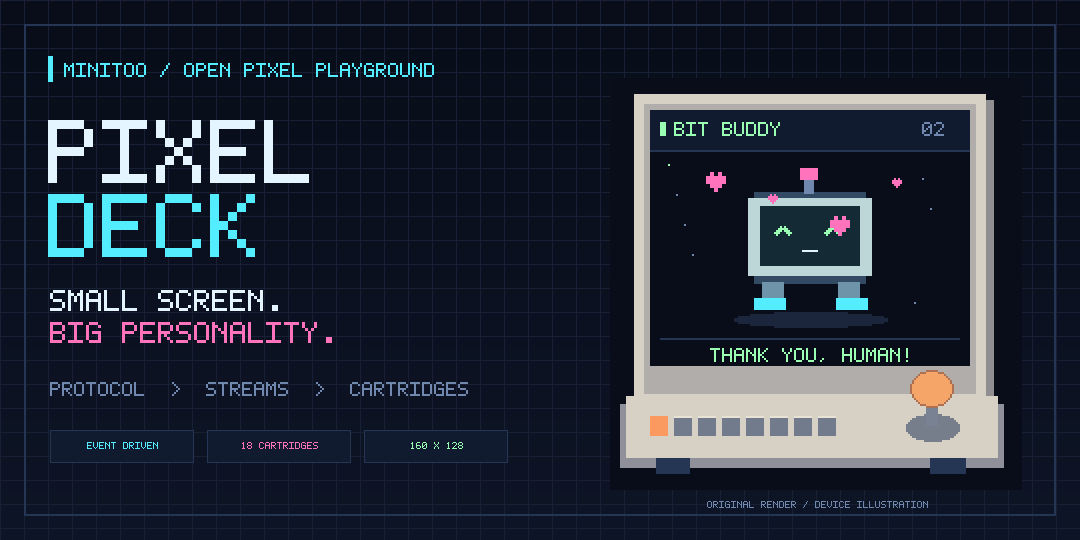
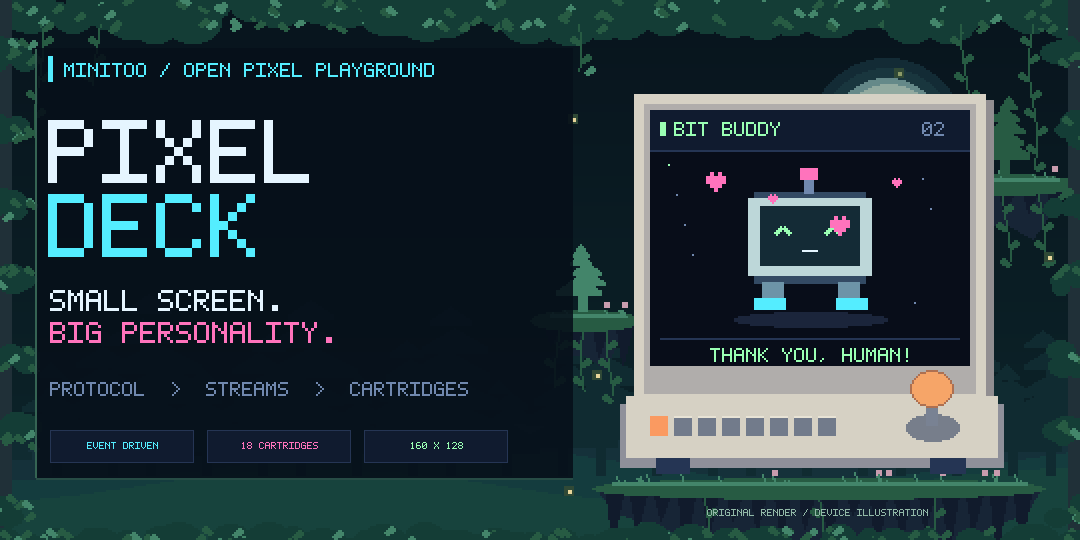
docs: add pixel forest artwork and GitHub attribution
Frame the guides and gallery with original woodland scenery while keeping
demo screens intact. Credit the GitHub maintainer in package metadata and
the license, and preserve all technical instructions.

Validation: 150 public files and local links audited; packaged runtime
files match the isolated installation with 18 verified renderers.

diff --git a/tools/build_gallery.py b/tools/build_gallery.py
@@ -1,6 +1,7 @@
 """Regenerate every repository image from the demo renderers and original art."""
 from pathlib import Path
 import math
+import random
 import sys
 from PIL import Image, ImageDraw
 ROOT=Path(__file__).resolve().parents[1]
@@ -10,13 +11,17 @@ from pixeldeck.export import export_demo, specimen
 from pixeldeck.pixels import Canvas, INK, PANEL, LINE, WHITE, CYAN, PINK, MINT, MUTED, GOLD
 OUT=ROOT/'docs/assets'; OUT.mkdir(parents=True,exist_ok=True)
 USEFUL=('dashboard','network','storage','power','clock','stopwatch','pomodoro','breathe','build')
+FOREST={'night':'#071519','far':'#102b31','pine':'#143d36','leaf':'#275b43',
+        'moss':'#43856a','light':'#91c6a0','bark':'#203038','rock':'#172536',
+        'shade':'#111b2c','glow':'#e7d59a','flower':'#c89cae'}
 
 def text(image,x,y,value,color=WHITE,size=1,center=False):
     c=Canvas(); c.image=image; c.d=ImageDraw.Draw(image); c.text(x,y,value,color,size,center)
 
-def device(screen,scale=2):
+def device(screen,scale=2,transparent=False):
     """Stylized front view, not a product photo or a dimensional CAD drawing."""
-    base=Image.new('RGB',(206,206),INK); d=ImageDraw.Draw(base)
+    base=Image.new('RGBA' if transparent else 'RGB',(206,206),(0,0,0,0) if transparent else INK)
+    d=ImageDraw.Draw(base)
     d.rectangle((17,11,191,164),fill='#918e91')
     d.rectangle((12,8,187,162),fill='#d6d1c4')
     d.rectangle((17,13,182,157),fill='#b0adab')
@@ -34,12 +39,167 @@ def device(screen,scale=2):
     d.rectangle((23,190,39,197),fill=LINE); d.rectangle((160,190,177,197),fill=LINE)
     return base.resize((206*scale,206*scale),Image.Resampling.NEAREST)
 
+def _leaf(draw,x,y,color,flip=False,scale=1):
+    """A compact pointed leaf sprite, shared by canopy, vines and page edges."""
+    rows=('0001100','0011110','0111110','1111100','0110000')
+    for row,bits in enumerate(rows):
+        for col,bit in enumerate(bits):
+            if bit=='1':
+                px=x+(6-col if flip else col)*scale
+                draw.rectangle((px,y+row*scale,px+scale-1,y+(row+1)*scale-1),fill=color)
+
+def _foliage(draw,x,y,radius,seed,color=None):
+    rng=random.Random(seed)
+    color=color or FOREST['pine']
+    for index in range(7):
+        px=x+rng.randint(-radius,radius); py=y+rng.randint(-radius//3,radius//3)
+        size=rng.randint(max(3,radius//3),max(4,radius*2//3))
+        draw.ellipse((px-size,py-size//2,px+size,py+size),fill=color)
+    for index in range(max(5,radius//2)):
+        px=x+rng.randint(-radius,radius); py=y+rng.randint(-radius//2,radius//2)
+        _leaf(draw,px,py,FOREST['leaf'] if index%3 else FOREST['moss'],index%2)
+
+def _vine(draw,x,y,length,seed,t=0):
+    phase=seed*.7
+    points=[(x+round(math.sin(step/12+phase+t*math.tau/4)*2),y+step)
+            for step in range(length)]
+    if points:
+        draw.line(points,fill=FOREST['leaf'],width=1)
+    for step in range(6,length,9):
+        px,py=points[step]
+        flip=(step//9+seed)%2==0
+        _leaf(draw,px-6 if flip else px,py,FOREST['moss'] if step%3 else FOREST['leaf'],flip)
+
+def _tree(draw,x,base,height,seed,color):
+    """Layered broadleaf silhouette; far trees stay quiet behind the foreground."""
+    rng=random.Random(seed)
+    draw.rectangle((x-2,base-height//2,x+2,base),fill=color)
+    for index in range(5):
+        y=base-height+index*height//7
+        radius=max(4,(index+2)*height//15)
+        offset=rng.randint(-height//12,height//12)
+        draw.polygon([(x+offset,y-4),(x+offset+radius,y+radius//3),
+                      (x+offset+radius,y+radius//2),(x-radius+offset,y+radius//2),
+                      (x-radius+offset,y+radius//3)],fill=color)
+
+def _island(draw,x,y,width,depth,seed,t=0):
+    rng=random.Random(seed); left=x-width//2; right=x+width//2
+    draw.polygon([(left,y),(right,y),(right-7,y+depth//3),(x+width//5,y+depth),
+                  (x,y+depth-7),(x-width//4,y+depth*3//4),(left+9,y+depth//3)],fill=FOREST['rock'])
+    for offset in range(5,width-8,12):
+        top=y+3; end=y+rng.randint(max(4,depth//3),max(5,depth-2))
+        draw.polygon([(left+offset,top),(left+offset+8,top),(left+offset+3,end)],fill=FOREST['shade'])
+    draw.ellipse((left-2,y-5,right+2,y+5),fill=FOREST['leaf'])
+    draw.line((left+8,y-3,right-7,y-3),fill=FOREST['moss'],width=2)
+    for index in range(max(4,width//8)):
+        px=rng.randint(left+3,right-3)
+        draw.line((px,y-2,px-2,y-rng.randint(4,8)),fill=FOREST['moss'])
+        if index%5==0:
+            draw.rectangle((px-2,y-9,px,y-7),fill=FOREST['flower'])
+    for index in range(3):
+        _vine(draw,left+width*(index+1)//4,y+4,depth+6+index*2,seed+index,t)
+
+def _forest_world(width,height,t=0):
+    """Half-resolution scenery enlarged with nearest-neighbor pixels."""
+    scene=Image.new('RGB',(width,height),FOREST['night']); d=ImageDraw.Draw(scene)
+    for y in range(height):
+        fraction=y/max(1,height-1)
+        d.line((0,y,width,y),fill=(8+round(4*fraction),20+round(17*fraction),29+round(13*fraction)))
+    moon=(round(width*.82),round(height*.25)); radius=max(10,min(29,height//5))
+    for extra,color in ((10,'#132b35'),(5,'#19363e'),(0,'#658989')):
+        r=radius+extra
+        d.ellipse((moon[0]-r,moon[1]-r,moon[0]+r,moon[1]+r),fill=color)
+    d.ellipse((moon[0]-radius+5,moon[1]-radius+3,moon[0]+radius-3,moon[1]+radius-4),fill='#92aaa0')
+    horizon=round(height*.81)
+    for layer,color in ((0,'#15313a'),(1,'#143c3e'),(2,'#17433d')):
+        points=[(0,height)]
+        for x in range(-20,width+40,20):
+            y=horizon+layer*12+round(math.sin(x/59+layer)*9)
+            points.append((x,y))
+        points.append((width,height)); d.polygon(points,fill=color)
+    for index in range(width//24+1):
+        x=index*25+(index%3)*3
+        _tree(d,x,horizon+18,35+(index*17)%54,index,FOREST['far'])
+    return scene
+
+def _forest_frame(scene,t=0):
+    d=ImageDraw.Draw(scene); width,height=scene.size
+    for x in range(-10,width+25,27):
+        _foliage(d,x,1,22,200+x)
+    for side in (0,width-1):
+        d.rectangle((side-5,0,side+5,height),fill=FOREST['bark'])
+        for y in range(25,height,38):
+            _foliage(d,side,y,13,y+side)
+    for x,length in ((19,57),(48,31),(width-24,73),(width-58,39),(width//2+18,24)):
+        _vine(d,x,12,length,x,t)
+    for x in range(-10,width+20,23):
+        _foliage(d,x,height+2,17,500+x)
+    return scene
+
+def _fireflies(scene,t=0,quiet_left=False):
+    d=ImageDraw.Draw(scene); width,height=scene.size
+    for index in range(19):
+        x=(index*71+37)%width; y=(index*43+31)%height
+        if quiet_left and x<width*.52 and 28<y<height-22:
+            continue
+        phase=t*math.tau/4+index*.9
+        x+=round(3*math.sin(phase)); y+=round(2*math.cos(phase))
+        if math.sin(phase)>.15:
+            d.rectangle((x-2,y-2,x+2,y+2),fill='#304936')
+            d.rectangle((x,y,x+1,y+1),fill=FOREST['glow'])
+    for index in range(5):
+        phase=t*math.tau/4+index*1.4
+        x=round(width*.54)+index*37+round(3*math.sin(phase))
+        y=29+index*37+round(4*math.cos(phase))
+        if y<height-18:
+            _leaf(d,x,y,FOREST['moss'],index%2)
+    if quiet_left:
+        for index,(x,y) in enumerate(((286,57),(296,186),(522,129),(284,247),(451,37))):
+            phase=t*math.tau/4+index*1.1
+            x+=round(2*math.sin(phase)); y+=round(2*math.cos(phase))
+            d.rectangle((x-2,y-2,x+2,y+2),fill='#304936')
+            d.rectangle((x,y,x+1,y+1),fill=FOREST['glow'] if math.sin(phase)>-.3 else '#8b9a68')
+
+def forest_corners(image):
+    """Decorate only the outer 16 pixels; content and status colors stay intact."""
+    d=ImageDraw.Draw(image); width,height=image.size
+    for x,flip in ((3,False),(width-10,True)):
+        d.line((x+3,3,x+3,49),fill=FOREST['leaf'])
+        for y in (5,20,35):
+            _leaf(d,x,y,FOREST['moss'] if y==20 else FOREST['leaf'],flip)
+        for offset in (3,15,27):
+            px=offset if not flip else width-offset-7
+            _leaf(d,px,3,FOREST['leaf'],flip)
+            _leaf(d,px,height-8,FOREST['moss'] if offset==15 else FOREST['leaf'],not flip)
+    return image
+
+def forest_banner(height=144):
+    """A static, text-free forest panorama for documentation chapter openings."""
+    scene=_forest_world(540,height//2); d=ImageDraw.Draw(scene)
+    for x,y,width,depth,seed in ((98,height//3,94,14,12),(292,height//3+10,76,12,23),
+                                 (459,height//3-5,108,18,34)):
+        _island(d,x,y,width,depth,seed)
+        _tree(d,x-12,y-4,28,seed,FOREST['leaf'])
+    _forest_frame(scene); _fireflies(scene)
+    return scene.resize((1080,height),Image.Resampling.NEAREST)
+
+def forest_divider():
+    return forest_banner(88)
+
 def hero(t=0):
-    out=Image.new('RGB',(1080,540),INK); d=ImageDraw.Draw(out)
-    for y in range(540): d.line((0,y,1079,y),fill=(8+int(y/90),13+int(y/70),25+int(y/42)))
-    for x in range(0,1080,24): d.line((x,0,x,539),fill='#172035')
-    for y in range(0,540,24): d.line((0,y,1079,y),fill='#172035')
-    d.rectangle((24,24,1055,515),outline=LINE,width=2)
+    scene=_forest_world(540,270,t); world=ImageDraw.Draw(scene)
+    _island(world,292,160,51,24,13,t)
+    _tree(world,291,155,29,13,FOREST['moss'])
+    _island(world,503,92,67,27,24,t)
+    _tree(world,502,87,35,24,FOREST['leaf'])
+    _island(world,409,244,223,37,35,t)
+    _forest_frame(scene,t); _fireflies(scene,t,quiet_left=True)
+    out=scene.resize((1080,540),Image.Resampling.NEAREST)
+    veil=Image.new('RGBA',out.size,(0,0,0,0)); v=ImageDraw.Draw(veil)
+    v.rectangle((36,48,572,478),fill=(6,15,25,225))
+    out=Image.alpha_composite(out.convert('RGBA'),veil).convert('RGB'); d=ImageDraw.Draw(out)
+    d.line((35,49,35,477),fill='#356453',width=2)
+    d.line((36,478,572,478),fill='#274c45',width=2)
     d.rectangle((48,56,52,81),fill=CYAN)
     text(out,64,63,'MINITOO / OPEN PIXEL PLAYGROUND',CYAN,2)
     text(out,48,120,'PIXEL',WHITE,9)
@@ -51,8 +211,9 @@ def hero(t=0):
         x=50+i*157; d.rectangle((x,430,x+143,462),fill=PANEL,outline=LINE)
         text(out,x+72,442,label,color,1,True)
     buddy=specimen('buddy'); screen=buddy.render(t)
-    out.paste(device(screen),(610,78))
-    text(out,817,501,'ORIGINAL RENDER / DEVICE ILLUSTRATION',MUTED,1,True)
+    illustration=device(screen,transparent=True)
+    out.paste(illustration,(610,78),illustration)
+    text(out,817,509,'ORIGINAL RENDER / DEVICE ILLUSTRATION','#91b8a7',1,True)
     return out
 
 def audio_gallery():
@@ -93,11 +254,14 @@ def overview(names=None,title='THE CARTRIDGE COLLECTION'):
         d.rectangle((x,y,x+331,y+309),fill=PANEL,outline=LINE)
         out.paste(gallery_specimen(name).render(1).resize((320,256),Image.Resampling.NEAREST),(x+6,y+6))
         text(out,x+12,y+277,name,CYAN,2)
+        d.line((x+325,y+307,x+311,y+288),fill=FOREST['leaf'],width=2)
+        _leaf(d,x+305,y+293,FOREST['moss'],scale=2)
+        _leaf(d,x+315,y+287,FOREST['leaf'],True,scale=2)
     footer=105+rows*330
     d.line((24,footer,1055,footer),fill=LINE,width=2)
     text(out,26,footer+20,f'{len(names):02} CARTRIDGES / ONE RENDERING API',PINK,2)
     text(out,26,footer+48,'RENDER / HANDLE / NEXT_DELAY / OPTIONAL DATA SOURCES',MUTED,2)
-    return out
+    return forest_corners(out)
 
 def architecture():
     out=Image.new('RGB',(1080,370),INK); d=ImageDraw.Draw(out)
@@ -113,7 +277,7 @@ def architecture():
             d.polygon([(x+261,157),(x+254,151),(x+254,163)],fill=CYAN)
     text(out,540,268,'RECEIVE AND TRANSMIT HAVE INDEPENDENT WORKERS.',WHITE,2,True)
     text(out,540,310,'STATIC SCREENS SLEEP. OBSOLETE FRAMES DISAPPEAR.',MUTED,2,True)
-    return out
+    return forest_corners(out)
 
 def controls():
     out=Image.new('RGB',(1080,218),INK); d=ImageDraw.Draw(out)
@@ -126,7 +290,7 @@ def controls():
         d.rectangle((x,y,x+331,y+69),fill=PANEL,outline=LINE,width=2)
         text(out,x+166,y+16,key,color,2,True)
         text(out,x+166,y+48,action,MUTED,1,True)
-    return out
+    return forest_corners(out)
 
 def io_map():
     out=Image.new('RGB',(1080,670),INK); d=ImageDraw.Draw(out)
@@ -161,7 +325,7 @@ def io_map():
             text(out,x+29,y+52,state,state_color)
     text(out,24,624,'HARDWARE RESULTS APPLY TO THE TESTED HOST AND DEVICE.',MUTED,2)
     text(out,24,652,'SEE THE CAPABILITY MAP FOR RUNNABLE EXAMPLES AND VERIFICATION.',MUTED)
-    return out
+    return forest_corners(out)
 
 if __name__=='__main__':
     for name in CATALOG:
@@ -182,5 +346,7 @@ if __name__=='__main__':
     architecture().save(OUT/'architecture.png')
     controls().save(OUT/'controls.png')
     io_map().save(OUT/'io-map.png')
+    forest_divider().save(OUT/'forest-divider.png')
+    forest_banner().save(OUT/'forest-banner.png')
     device(specimen('orbit').render(1)).save(OUT/'device-orbit.png')
     print('Generated original gallery assets.')

diff --git a/README.md b/README.md
@@ -1,4 +1,4 @@
-<p align="center"><img src="docs/assets/hero.gif" alt="MiniToo Pixeldeck: a pixel robot on an illustrated desktop device" width="1080"></p>
+<p align="center"><img src="docs/assets/hero.gif" alt="MiniToo Pixeldeck: a miniature console in a glowing pixel forest" width="1080"></p>
 
 <p align="center">
   <a href="LICENSE"><img src="https://img.shields.io/badge/license-MIT-9affb3?style=flat-square&amp;labelColor=152440" alt="License: MIT"></a>
@@ -72,6 +72,8 @@ The hardware paths are different: image packets use **Classic Bluetooth RFCOMM c
 | Audio | `AudioWorker(callback, backend_factory=...)`; backend implements `run` | Only for real streams |
 
 See the [runtime pipeline and resource bounds](docs/architecture.md), [API recipes](docs/extending.md), and [capability-to-demo map](docs/capabilities.md).
+
+<p align="center"><img src="docs/assets/forest-divider.png" alt="" width="1080"></p>
 
 ## Use it
 
@@ -166,6 +168,8 @@ Each incoming line is a small typed event. Use `{"type":"notice","text":"BUILD C
 ```
 
 Run `pixeldeck run build --stdin` and let your own producer report state changes. Neither schema executes commands or integrates with a hosted service. [Full CLI and configuration reference →](docs/usage.md)
+
+<p align="center"><img src="docs/assets/forest-divider.png" alt="" width="1080"></p>
 
 ## Insert a cartridge
 
@@ -281,6 +285,8 @@ Individual cartridges for monitoring, timing and pushed events. [View the utilit
 
 Build events, home automation, chat notices, creative experiments: bring your own producer. Signal keeps the last eight notices and updates only when an event arrives. Activate clears the inbox. It is a generic local interface with no service integration or embedded credentials.
 
+<p align="center"><img src="docs/assets/forest-divider.png" alt="" width="1080"></p>
+
 ## Write a cartridge
 
 A cartridge renders one `160 × 128` RGB image. It knows nothing about Bluetooth:
@@ -346,11 +352,13 @@ The release tool uses a public file allowlist, checks relative Markdown links, s
 <details>
 <summary><strong>Rebuild the visual documentation</strong></summary>
 
-`tools/build_gallery.py` generates the hero, control strip, I/O map, runtime diagram, contact sheets and every cartridge PNG/GIF from source. The monitor fixtures are synthetic and carry no host identity. No image-generation service, paid font or downloaded sprite pack is needed to reproduce the gallery.
+`tools/build_gallery.py` generates the animated forest hero, woodland dividers, control strip, I/O map, runtime diagram, contact sheets and every cartridge PNG/GIF from source. The monitor fixtures are synthetic and carry no host identity. No image-generation service, paid font or downloaded sprite pack is needed to reproduce the gallery.
 
 </details>
 
 ## Credits
+
+Maintained by [Zhaibin-Cui](https://github.com/Zhaibin-Cui).
 
 Protocol research: [bugzmanov/divoom-minitoo](https://github.com/bugzmanov/divoom-minitoo), [alvinunreal/divoom-minitoo-osx](https://github.com/alvinunreal/divoom-minitoo-osx), and [lewilou22/divoom-minitoo-tools](https://github.com/lewilou22/divoom-minitoo-tools). Visual inspiration: [RoboEyes](https://github.com/FluxGarage/RoboEyes), [PICO-8 particles](https://mboffin.itch.io/pico-8-particles), and the [MiniToo industrial design](https://divoom.com/products/minitoo/).
 

diff --git a/docs/readme-design.md b/docs/readme-design.md
@@ -1,10 +1,12 @@
 # README design notes
 
-The README uses the device's pixel palette and control layout. It starts with architecture and setup, followed by a gallery of runnable cartridges.
+The README places a miniature console in a pixel forest: leaves, hanging vines, floating ground and warm fireflies around a clear technical workspace. It starts with architecture and setup, followed by a gallery of runnable cartridges.
 
 ## Layout choices
 
-- The animated hero establishes a recognizable device silhouette and pixel palette.
+- The animated hero keeps the recognizable device silhouette inside an original woodland scene.
+- Static forest dividers mark the setup, gallery and extension sections. Leaf accents stay outside text, code and real demo renders.
+- Dark blue and pine green carry the setting; cyan, pink and gold retain their meaning in technical diagrams and status displays.
 - A compact terminal-style project map lists the canvas, cartridge count and input/output model.
 - Three navigation chapters separate the engine, first run and cartridge shelf.
 - Each gallery card places its render beside a command and an activation behavior.
@@ -12,7 +14,7 @@ The README uses the device's pixel palette and control layout. It starts with ar
 - Deeper recipes use collapsible sections so the gallery remains easy to browse.
 - The source links next to the gallery connect every visual to reproducible code.
 
-The control strip, architecture graphic, illustrations and previews are generated locally by `tools/build_gallery.py` from the project's drawing code and renderers. Monitor and audio previews use synthetic data; hardware measurements stay in the validation record.
+The forest artwork, control strip, architecture graphic, illustrations and previews are generated locally by `tools/build_gallery.py` from the project's drawing code and renderers. Monitor and audio previews use synthetic data; hardware measurements stay in the validation record. Decorative images have empty alternative text; the hero and diagrams have descriptive alternatives.
 
 ## References
 

diff --git a/CHANGELOG.md b/CHANGELOG.md
@@ -9,6 +9,7 @@
 - Send the latest frame after connection setup; report encoding time, queue wait and frame age separately.
 - Document the microphone-loaded encoding comparison and add codec selection to the device write lab.
 - Fix timestamp ordering in the offline audio export and align the custom cartridge example with its Activate control.
+- Refresh the documentation with original pixel forest artwork and reproducible animated scenery.
 
 ## 0.6.2
 

diff --git a/docs/quickstart.zh-CN.md b/docs/quickstart.zh-CN.md
@@ -1,5 +1,7 @@
 # MiniToo Pixeldeck 中文快速上手
 
+<p align="center"><img src="assets/forest-banner.png" alt="" width="1080"></p>
+
 这是独立的 MiniToo 像素开发工具。电脑运行程序，通过蓝牙发送画面；没有替换设备固件。代码、主文档和像素界面以英文为主。
 
 ## 架构

diff --git a/docs/usage.md b/docs/usage.md
@@ -1,5 +1,7 @@
 # Usage
 
+<p align="center"><img src="assets/forest-banner.png" alt="" width="1080"></p>
+
 Install from a source checkout with `python -m pip install -e .`.
 
 For the full Windows setup, use Python 3.11+ in a virtual environment:

diff --git a/docs/architecture.md b/docs/architecture.md
@@ -1,5 +1,7 @@
 # Architecture
 
+<p align="center"><img src="assets/forest-divider.png" alt="" width="1080"></p>
+
 ![Runtime architecture](assets/architecture.png)
 
 ## Ownership
